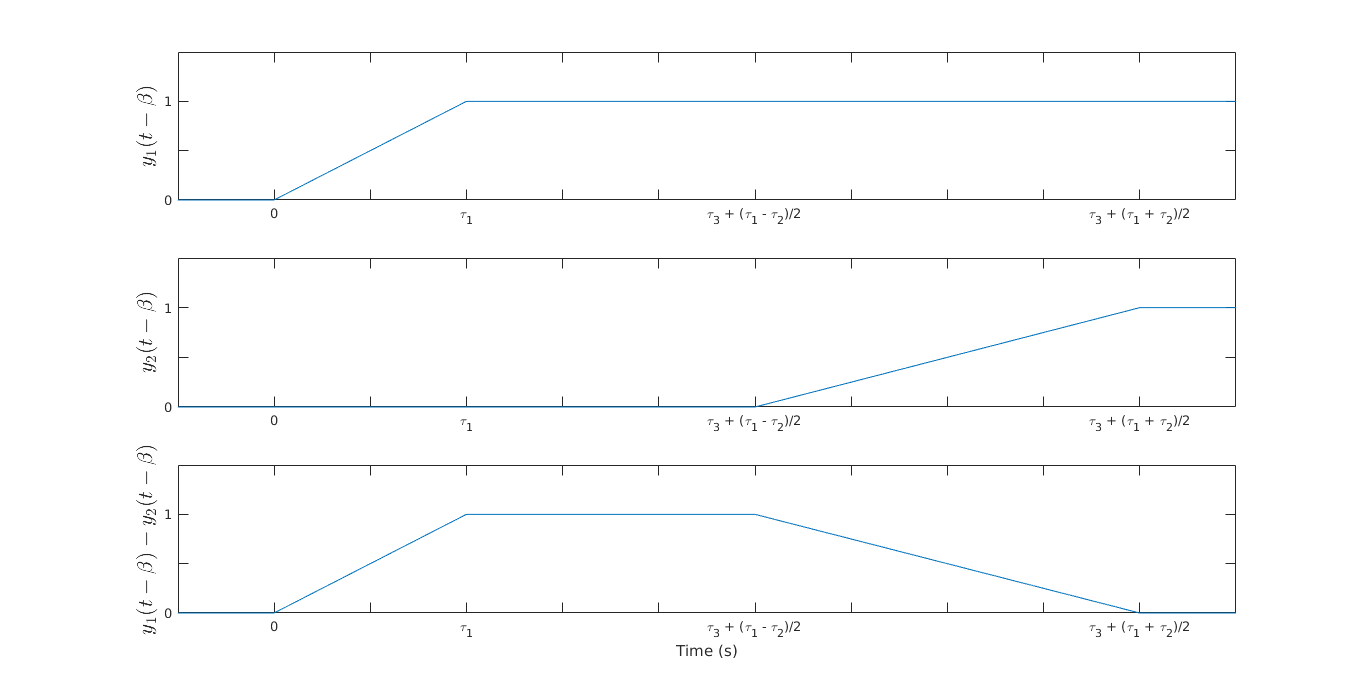
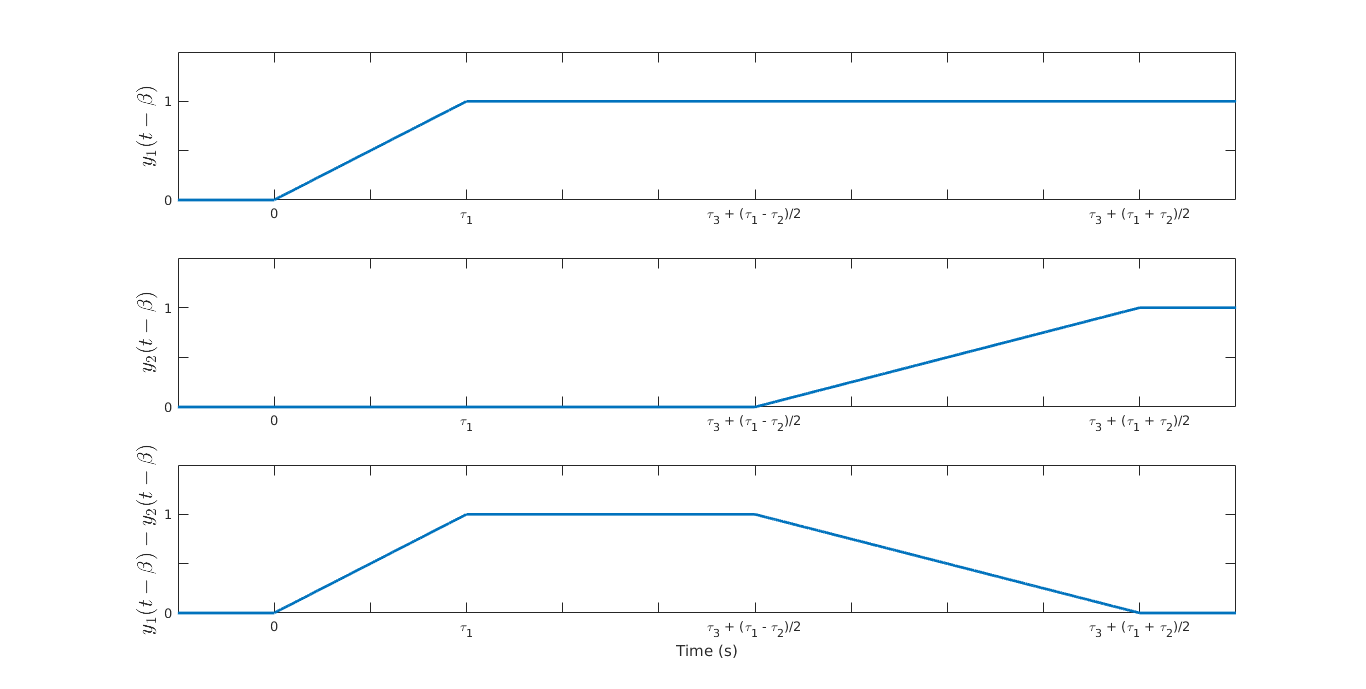
now is the hard part

diff --git a/final/scripts/num4_main.m b/final/scripts/num4_main.m
@@ -17,7 +17,7 @@ x_tick_str{11} = '\tau_3 + (\tau_1 + \tau_2)/2';
 figure;
 
 subplot(311);
-plot(t2, dt*conv(a(t + tau3/2 - beta, tau1), heaviside(t)));
+plot(t2, dt*conv(a(t + tau3/2 - beta, tau1), heaviside(t)), 'LineWidth', 2);
 
 xlim([-0.5 tau2+tau3]);
 ylim([0 1.5]);
@@ -26,7 +26,7 @@ ylabel('$$y_{1}(t-\beta)$$', 'Interpreter', 'latex', 'FontSize', 16);
 set(gca, 'xTickLabel', x_tick_str, 'yTickLabel', y_tick_str);
 
 subplot(312);
-plot(t2, dt*conv(a(t - tau3/2 - beta, tau2), heaviside(t)));
+plot(t2, dt*conv(a(t - tau3/2 - beta, tau2), heaviside(t)), 'LineWidth', 2);
 
 xlim([-0.5 tau2+tau3]);
 ylim([0 1.5]);
@@ -35,7 +35,7 @@ ylabel('$$y_{2}(t-\beta)$$', 'Interpreter', 'latex', 'FontSize', 16);
 set(gca, 'xTickLabel', x_tick_str, 'yTickLabel', y_tick_str);
 
 subplot(313);
-plot(t2, w(t, tau1, tau2, tau3));
+plot(t2, w(t, tau1, tau2, tau3), 'LineWidth', 2);
 
 xlim([-0.5 tau2+tau3]);
 ylim([0 1.5]);
@@ -44,26 +44,3 @@ ylabel('$$y_{1}(t-\beta) - y_{2}(t-\beta)$$', ...
 xlabel('Time (s)')
 
 set(gca, 'xTickLabel', x_tick_str, 'yTickLabel', y_tick_str);
-
-% figure;
-% subplot(211);
-% fft_w1 = fft(a(t + tau3/2, tau1));
-% fft_w1 = fftshift(fft_w1);
-% 
-% fft_w2 = fft(heaviside(t));
-% fft_w2 = fftshift(fft_w2);
-% 
-% fft_w3 = fft(a(t - tau3/2, tau2));
-% fft_w3 = fftshift(fft_w3);
-% 
-% plot(t, abs(fft_w1.*fft_w2 - fft_w3.*fft_w2));
-% xlim([-0.1 0.1])
-% 
-% fft_w0 = fft(w(t, tau1, tau2, tau3));
-% fft_w0 = fftshift(fft_w0);
-% 
-% subplot(212)
-% plot(t2, abs(fft_w0));
-% xlim([-0.1 0.1])
-% 
-

diff --git a/final/scripts/part2.m b/final/scripts/part2.m
@@ -1,5 +1,26 @@
 % import global variables    
 settings_2;
 
-plot_fft(d(t), theory_d(f), 'p_{1}', '$$\tau sinc(f\tau)$$');
-plot_fft(c(t).*d(t), theory_d(f), 'p_{1}', '$$\tau sinc(f\tau)$$');
+% plot_fft(d(t3), theory_d(f), 'p_{1}', '$$\tau sinc(f\tau)$$');
+% plot_fft(c(t3).*d(t), theory_d(f), 'p_{1}', '$$\tau sinc(f\tau)$$');
+
+figure;
+plot(t0, d(t0), 'r-')
+title(...
+    '$$d(t)=A(1 + a_{1}cos(2\pi f_{1}t+\phi_{1}) + a_{2}cos(2\pi f_{2}t+\phi_{2}))$$',...
+    'interpreter', 'latex', 'fontsize', 16);
+ylabel('Amplitude');
+xlabel('Time (s)');
+
+figure;
+
+fft_d = fft(c(t3).*d(t3))*dt;
+fft_d = fftshift(fft_d);
+
+subplot(211);
+plot(f, abs(fft_d));
+xlim([-5 5])
+
+subplot(212);
+plot(f, angle(fft_d));
+xlim([-5 5])

diff --git a/final/scripts/num5_main.m b/final/scripts/num5_main.m
@@ -1,0 +1,22 @@
+figure;
+subplot(211);
+fft_w1 = fft(a(t + tau3/2 - beta, tau1));
+fft_w1 = fftshift(fft_w1);
+
+fft_w2 = fft(heaviside(t));
+fft_w2 = fftshift(fft_w2);
+
+fft_w3 = fft(a(t - tau3/2 - beta, tau2));
+fft_w3 = fftshift(fft_w3);
+
+plot(t, dt*abs(fft_w1.*fft_w2 - fft_w3.*fft_w2));
+xlim([-0.1 0.1])
+
+fft_w0 = fft(w(t, tau1, tau2, tau3));
+fft_w0 = fftshift(fft_w0);
+
+subplot(212)
+plot(t2, abs(fft_w0));
+xlim([-0.1 0.1])
+
+
